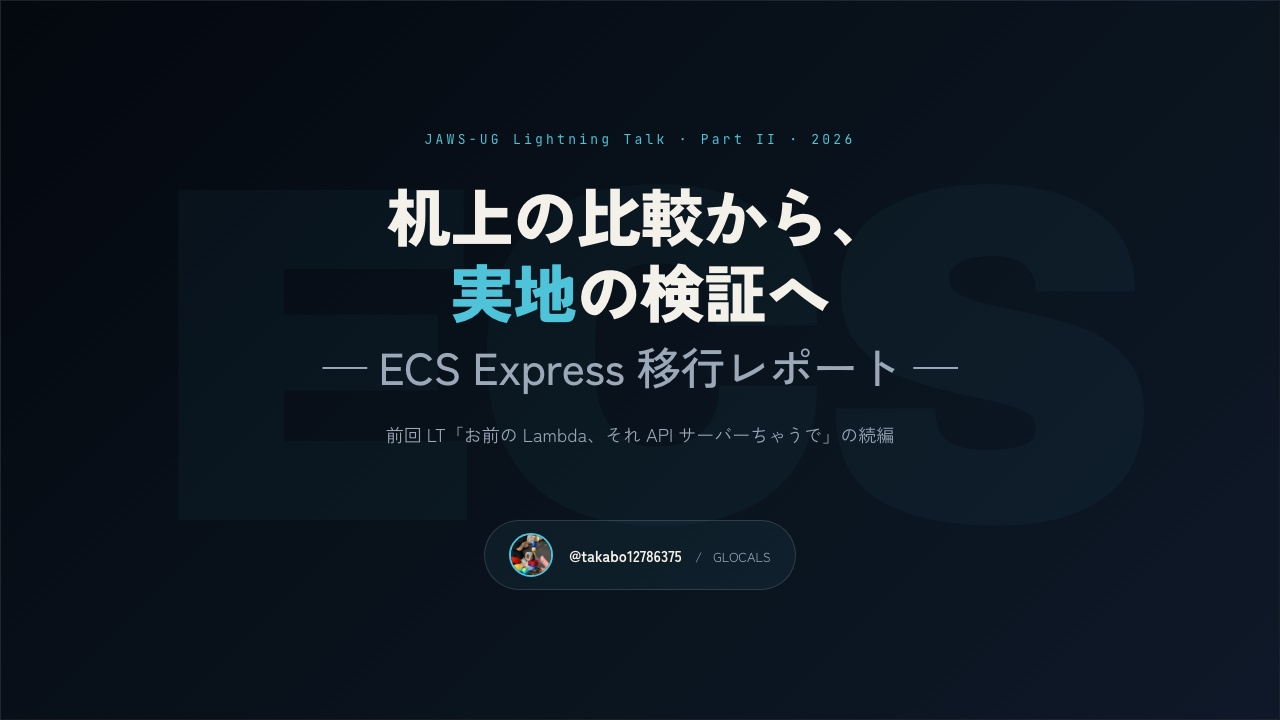
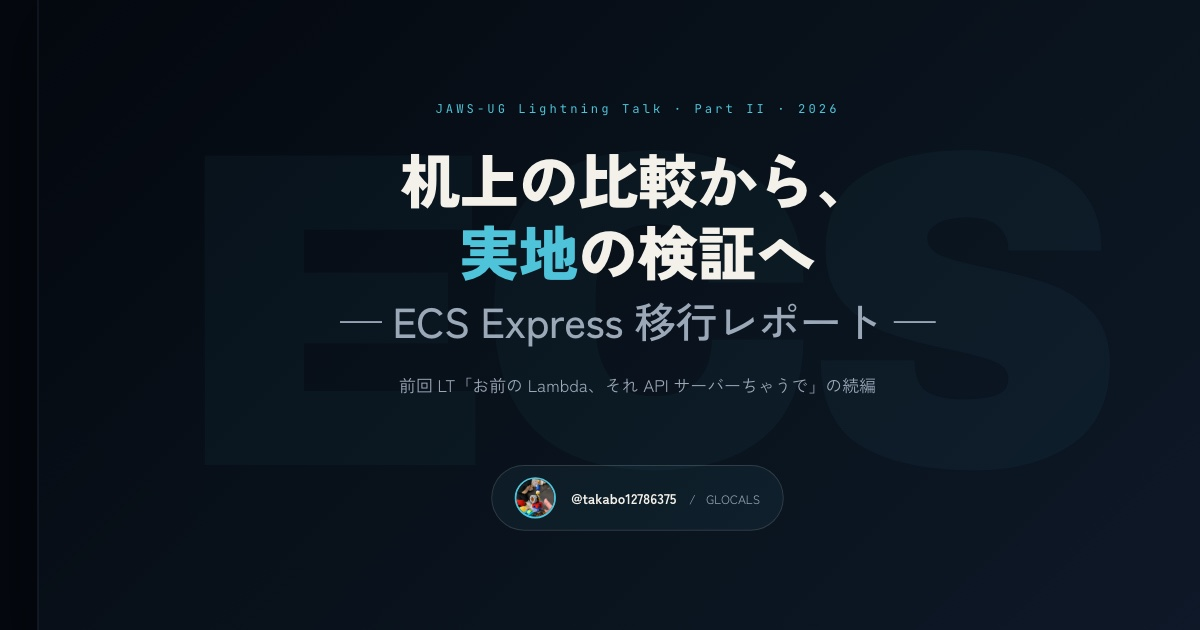
OGP: Facebook 対応 (dimension 整合 + image:type + robots.txt 200)
Facebook で OGP プレビューが出なかった原因を 3 点修正:

1. ogp-ecs.jpg の実寸 1280×720 と og:image:width/height 1200/630 が不整合だった
   - ogp-mode CSS の stage scale を 0.9375 に変更 (1280×720 → 1200×675、 上下 45px 切り)
   - Chrome headless を window-size=1200,630 で再撮影 → 実寸も 1200×630 に揃った

2. og:image に補助メタを追加 (Facebook の crawl パイプラインを安定させるため)
   - og:image:secure_url (HTTPS 明示)
   - og:image:type (image/jpeg)
   - og:image:alt (アクセシビリティ + 検索エンジン用)

3. robots.txt が HTTP 403 を返していた (CloudFront default で対象 object なし)
   - User-agent: * / Allow: / の最小 robots.txt を追加 → 200 で返るように

Facebook 側ではキャッシュが残っているので、 反映には Facebook Sharing Debugger で
強制 re-scrape が必要: https://developers.facebook.com/tools/debug/

diff --git a/shared/app.ts b/shared/app.ts
@@ -106,8 +106,11 @@ function buildOgpTags(args: {
     '<meta property="og:type" content="website">',
     `<meta property="og:url" content="${url}">`,
     `<meta property="og:image" content="${image}">`,
+    `<meta property="og:image:secure_url" content="${image}">`,
+    '<meta property="og:image:type" content="image/jpeg">',
     '<meta property="og:image:width" content="1200">',
     '<meta property="og:image:height" content="630">',
+    `<meta property="og:image:alt" content="${args.title}">`, // shared/app.ts は `args.title` (引数 obj 名 = args のため)
     '<meta property="og:site_name" content="JAWS-UG LT by @takabo12786375">',
     '<meta property="og:locale" content="ja_JP">',
     '<meta name="twitter:card" content="summary_large_image">',

diff --git a/lt-jaws-ecs-migration.html b/lt-jaws-ecs-migration.html
@@ -770,7 +770,7 @@ body.ogp-mode .audio-warning,
 body.ogp-mode .progress,
 body.ogp-mode .slide-num,
 body.ogp-mode .slide-brand { display: none !important; }
-body.ogp-mode .stage { transform: scale(1) !important; }  /* stage 1280×720 を viewport にぴったり */
+body.ogp-mode .stage { transform: scale(0.9375) !important; }  /* stage 1280×720 → 1200×675 (viewport 1200×630 に幅で fit)、 上下 45px は overflow:hidden で切れる */
 body.ogp-mode .slide:not(.active) { display: none !important; }
 </style>
 </head>
